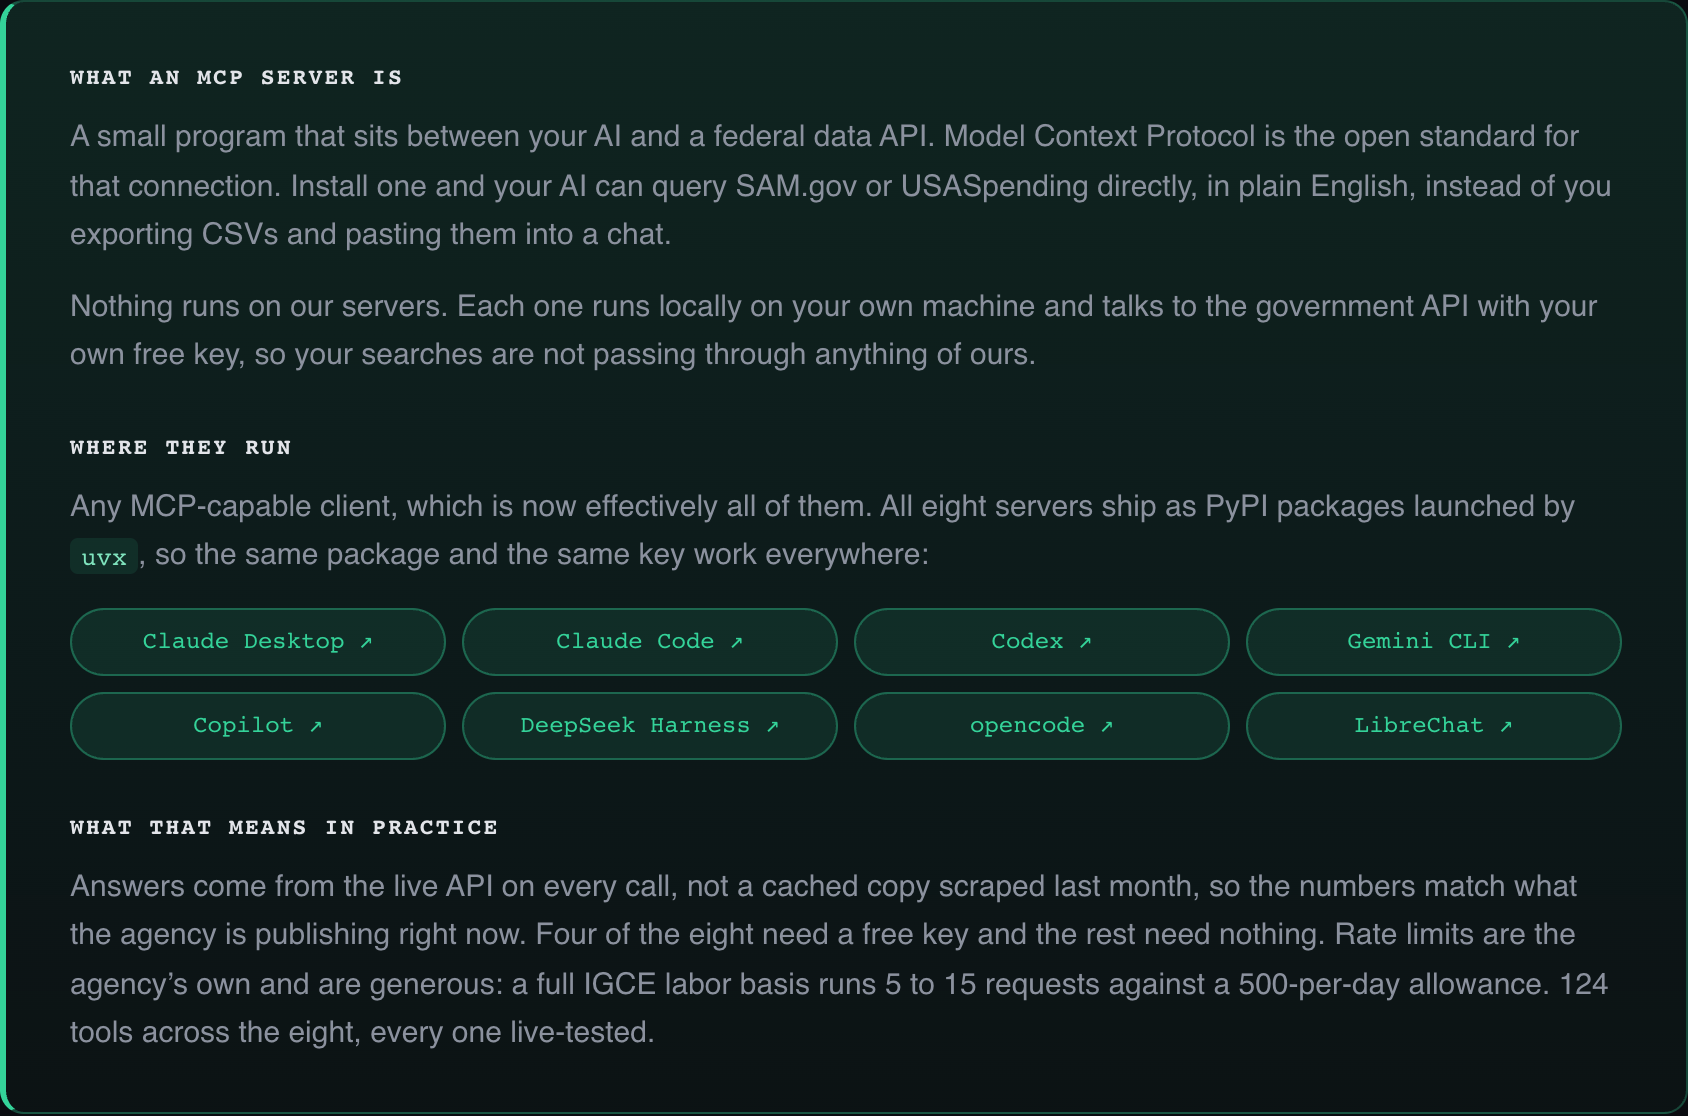
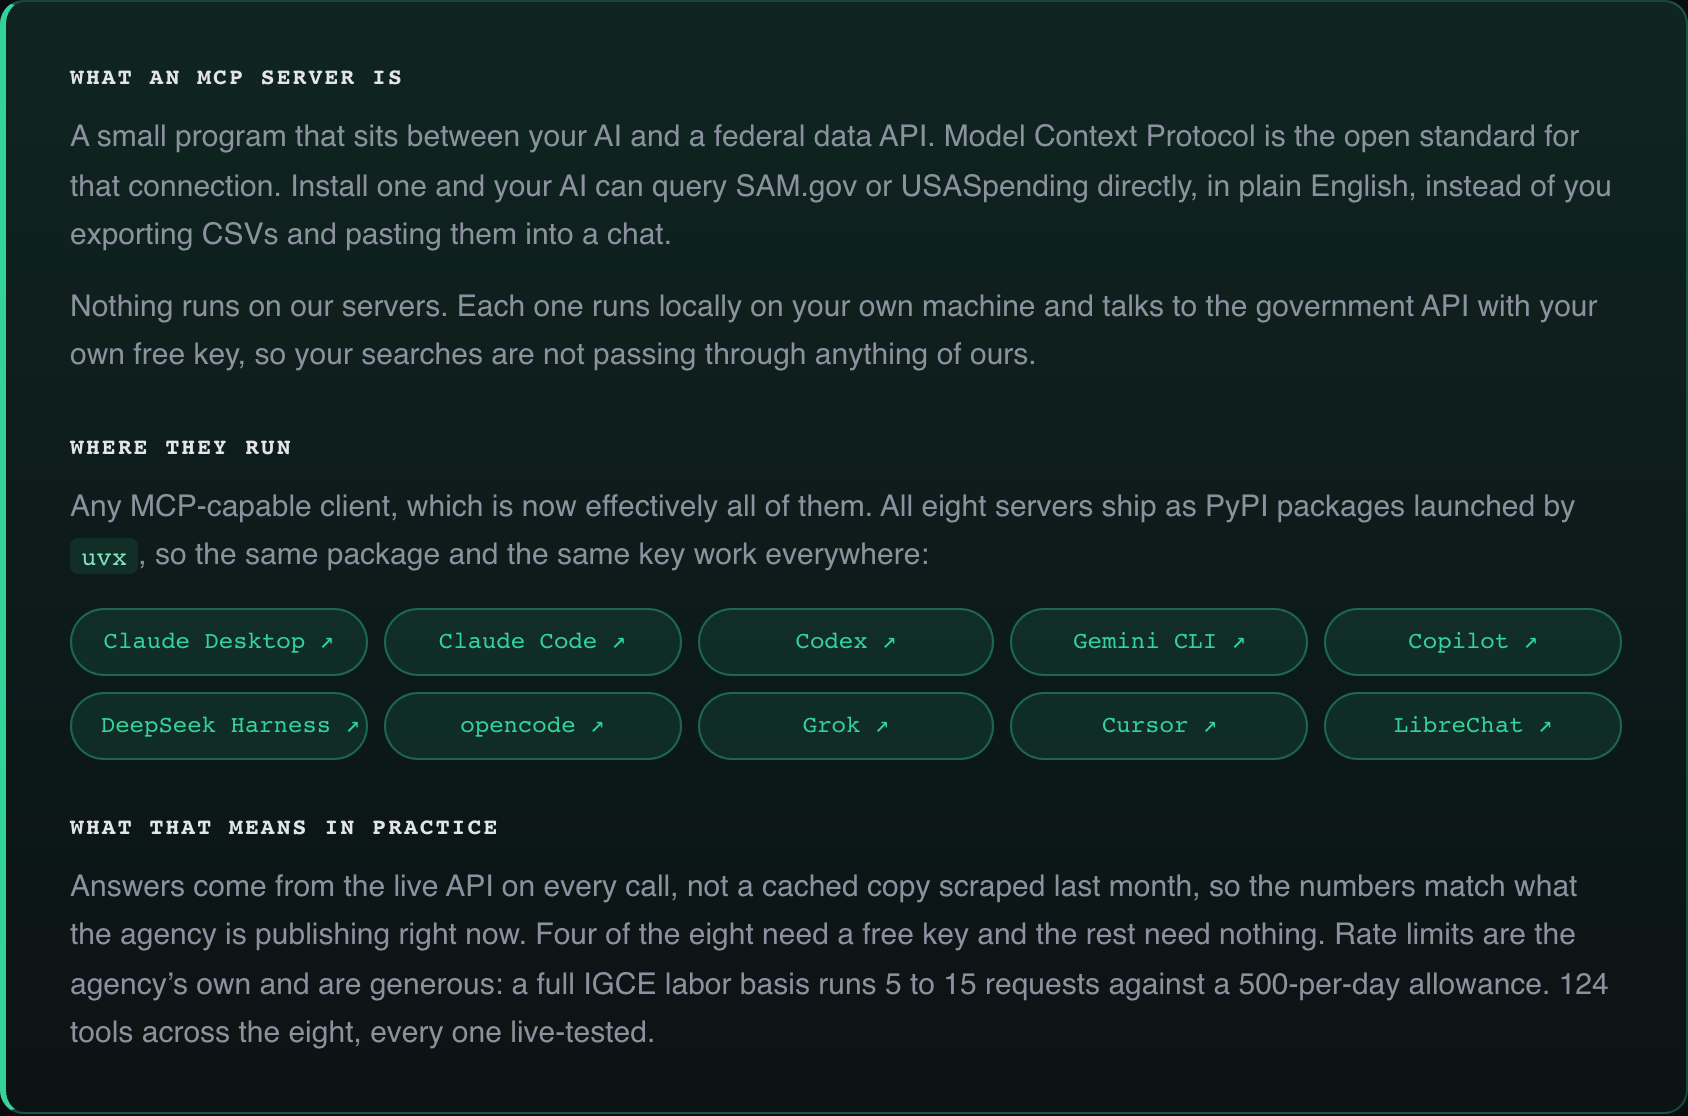
readme: add Grok and Cursor to the runtime roster
Both verified against their own docs before being claimed. Grok Build
takes MCP servers as [mcp_servers.<name>] in ~/.grok/config.toml and
namespaces tools as <server>__<tool>; Cursor uses the same mcpServers
shape as Claude Desktop in ~/.cursor/mcp.json or a committed
.cursor/mcp.json.

Explainer card re-rendered from the live site panel, architecture
diagram's client step now names all ten, and the text links under the
image match.

diff --git a/docs/architecture-source.html b/docs/architecture-source.html
@@ -216,7 +216,7 @@ takes. Read down for what the suite covers.</p>
   <div class="step local">
     <div class="step-kicker">You ask</div>
     <div class="step-title">Your AI client</div>
-    <div class="step-sub">Claude Desktop, Claude Code, Codex,<br>Gemini CLI, Copilot, DeepSeek Harness,<br>opencode, LibreChat</div>
+    <div class="step-sub">Claude Desktop, Claude Code, Codex,<br>Gemini CLI, Copilot, DeepSeek Harness,<br>Grok, Cursor, opencode, LibreChat</div>
   </div>
   <div class="arrow">&#8594;</div>
   <div class="step local">

diff --git a/readme.md b/readme.md
@@ -6,9 +6,9 @@ Your assistant queries the real APIs instead of recalling what it thinks the FAR
 
 Website: [1102tools.com](https://1102tools.com)
 
-![What an MCP server is, where they run, and what that means in practice. An MCP server is a small program that sits between your AI and a federal data API; Model Context Protocol is the open standard for that connection. Each one runs locally on your own machine and calls the API with your own free key, so nothing routes through a third party. They run on Claude Desktop, Claude Code, Codex, Gemini CLI, Copilot, DeepSeek Harness, opencode, and LibreChat. Answers come from the live API on every call rather than a cached copy, four of the eight need a free key, and all 124 tools are live-tested.](docs/mcp-explainer.png)
+![What an MCP server is, where they run, and what that means in practice. An MCP server is a small program that sits between your AI and a federal data API; Model Context Protocol is the open standard for that connection. Each one runs locally on your own machine and calls the API with your own free key, so nothing routes through a third party. They run on Claude Desktop, Claude Code, Codex, Gemini CLI, Copilot, DeepSeek Harness, Grok, Cursor, opencode, and LibreChat. Answers come from the live API on every call rather than a cached copy, four of the eight need a free key, and all 124 tools are live-tested.](docs/mcp-explainer.png)
 
-Runs on all of these, since the image above cannot be clicked: [Claude Desktop](https://claude.ai/download) &middot; [Claude Code](https://claude.com/claude-code) &middot; [Codex](https://openai.com/codex/) &middot; [Gemini CLI](https://geminicli.com) &middot; [Copilot](https://github.com/features/copilot) &middot; [DeepSeek Harness](https://deepseek.com/harness/en/) &middot; [opencode](https://opencode.ai) &middot; [LibreChat](https://www.librechat.ai)
+Runs on all of these, since the image above cannot be clicked: [Claude Desktop](https://claude.ai/download) &middot; [Claude Code](https://claude.com/claude-code) &middot; [Codex](https://openai.com/codex/) &middot; [Gemini CLI](https://geminicli.com) &middot; [Copilot](https://github.com/features/copilot) &middot; [DeepSeek Harness](https://deepseek.com/harness/en/) &middot; [Grok](https://x.ai/grok) &middot; [Cursor](https://cursor.com) &middot; [opencode](https://opencode.ai) &middot; [LibreChat](https://www.librechat.ai)
 
 ![Architecture diagram showing how a question travels: your AI client (any of the eight above), to an MCP server launched by uvx on your own machine, to the official federal API using your own free key, back to a deterministic result. Coverage is grouped in three domains. Awards and entities: SAM.gov (19 tools, key) and USASpending (55 tools). Labor and pricing: BLS OEWS (7 tools, key), GSA CALC+ (8 tools), GSA Per Diem (6 tools, key). Regulation and rulemaking: eCFR (13 tools), Federal Register (8 tools), Regulations.gov (8 tools, key).](docs/architecture.png)
 
